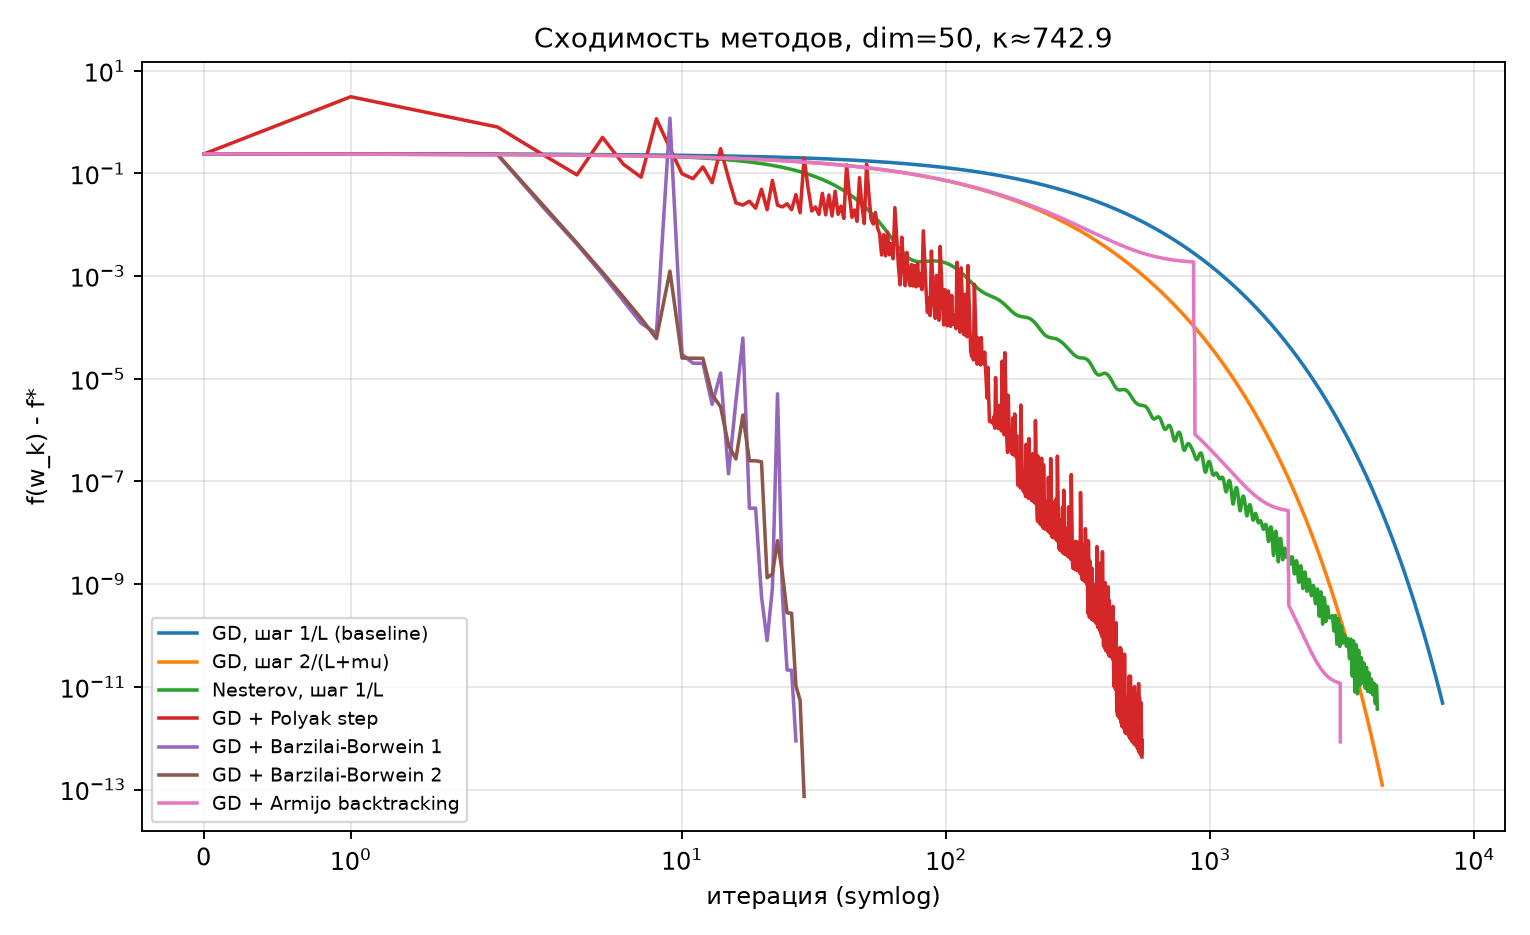
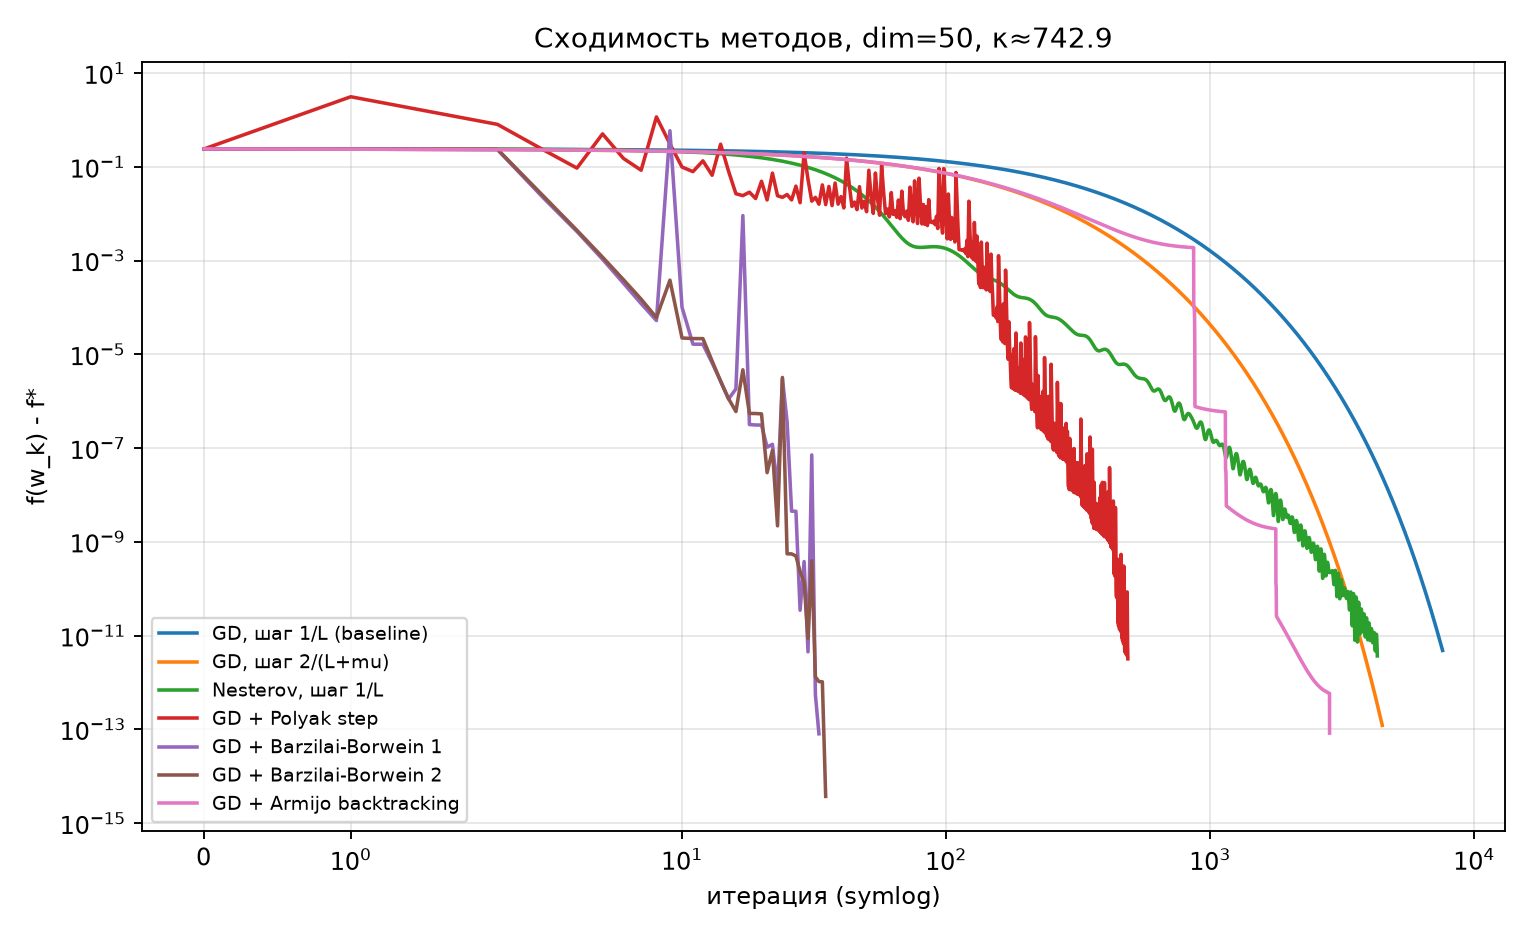
Update final report results

diff --git a/lab2/results/final/summary.md b/lab2/results/final/summary.md
@@ -1,27 +1,27 @@
 ## Задача A: dim=2
 
-| Метод | κ задачи | Итерации | Время, мс | f−f* (исходная) | (f−f*)/abs(f*) | ‖w−w*‖ | Сошелся |
+| Метод | κ задачи | Итерации | Время, мс | f−f* (исходная) | (f−f*)/abs(f*) | ‖w−w*‖ | Сошёлся |
 |---|---|---|---|---|---|---|---|
-| GD, шаг 1/L (baseline) | 6.84 | 68 | 0.991 | 1.67e-12 | 2.39e-10 | 3.71e-04 | да |
-| GD, шаг 2/(L+mu) | 6.84 | 40 | 0.891 | 4.08e-13 | 5.84e-11 | 1.41e-04 | да |
-| Nesterov, шаг 1/L | 6.84 | 64 | 0.988 | 9.71e-13 | 1.39e-10 | 2.83e-04 | да |
-| GD + Polyak step | 6.84 | 33 | 1.23 | 1.55e-12 | 2.23e-10 | 3.49e-04 | да |
-| GD + Barzilai-Borwein 1 | 6.84 | 3 | 0.113 | 2.60e-18 | 3.73e-16 | 1.89e-14 | да |
-| GD + Barzilai-Borwein 2 | 6.84 | 3 | 0.115 | 2.60e-18 | 3.73e-16 | 3.55e-15 | да |
-| GD + Armijo backtracking | 6.84 | 18 | 1.1 | 7.78e-14 | 1.11e-11 | 8.00e-05 | да |
-| GD + L2 (alpha=1e-06) | 6.61 | 39 | 1.26 | 5.79e-06 | 8.29e-04 | 0.684 | да |
-| GD + L2 (alpha=1e-05) | 5.14 | 30 | 0.919 | 3.19e-04 | 0.0457 | 5.05 | да |
-| GD + L2 (alpha=0.0001) | 2.14 | 12 | 0.356 | 2.82e-03 | 0.404 | 14.1 | да |
-| GD + L2 (alpha=0.001) | 1.14 | 5 | 0.179 | 5.92e-03 | 0.848 | 17.7 | да |
+| GD, шаг 1/L (baseline) | 6.84 | 68 | 1.5 | 1.67e-12 | 2.39e-10 | 3.71e-04 | да |
+| GD, шаг 2/(L+mu) | 6.84 | 40 | 0.847 | 4.08e-13 | 5.84e-11 | 1.41e-04 | да |
+| Nesterov, шаг 1/L | 6.84 | 64 | 1.5 | 9.71e-13 | 1.39e-10 | 2.83e-04 | да |
+| GD + Polyak step | 6.84 | 33 | 1.17 | 1.55e-12 | 2.23e-10 | 3.49e-04 | да |
+| GD + Barzilai-Borwein 1 | 6.84 | 3 | 0.152 | 0.00e+00 | 0.00e+00 | 1.71e-14 | да |
+| GD + Barzilai-Borwein 2 | 6.84 | 3 | 0.134 | 0.00e+00 | 0.00e+00 | 1.95e-14 | да |
+| GD + Armijo backtracking | 6.84 | 18 | 1.09 | 7.78e-14 | 1.11e-11 | 8.00e-05 | да |
+| GD + L2 (alpha=1e-06) | 6.61 | 39 | 1.2 | 5.79e-06 | 8.29e-04 | 0.684 | да |
+| GD + L2 (alpha=1e-05) | 5.14 | 30 | 0.898 | 3.19e-04 | 0.0457 | 5.05 | да |
+| GD + L2 (alpha=0.0001) | 2.14 | 12 | 0.38 | 2.82e-03 | 0.404 | 14.1 | да |
+| GD + L2 (alpha=0.001) | 1.14 | 5 | 0.21 | 5.92e-03 | 0.848 | 17.7 | да |
 
 ## Задача B: dim=50
 
-| Метод | κ задачи | Итерации | Время, мс | f−f* (исходная) | (f−f*)/abs(f*) | ‖w−w*‖ | Сошелся |
+| Метод | κ задачи | Итерации | Время, мс | f−f* (исходная) | (f−f*)/abs(f*) | ‖w−w*‖ | Сошёлся |
 |---|---|---|---|---|---|---|---|
-| GD, шаг 1/L (baseline) | 743 | 7592 | 171 | 4.81e-12 | 2.00e-11 | 9.64e-04 | да |
-| GD, шаг 2/(L+mu) | 743 | 4487 | 89.2 | 1.22e-13 | 5.07e-13 | 1.50e-04 | да |
-| Nesterov, шаг 1/L | 743 | 4297 | 64.3 | 3.68e-12 | 1.53e-11 | 7.55e-04 | да |
-| GD + Polyak step | 743 | 552 | 9.82 | 4.30e-13 | 1.79e-12 | 2.87e-04 | да |
-| GD + Barzilai-Borwein 1 | 743 | 27 | 0.714 | 8.86e-13 | 3.69e-12 | 2.87e-04 | да |
-| GD + Barzilai-Borwein 2 | 743 | 29 | 0.949 | 7.34e-14 | 3.05e-13 | 1.09e-04 | да |
-| GD + Armijo backtracking | 743 | 3111 | 110 | 8.47e-13 | 3.53e-12 | 4.05e-04 | да |
+| GD, шаг 1/L (baseline) | 743 | 7592 | 129 | 4.81e-12 | 2.00e-11 | 9.64e-04 | да |
+| GD, шаг 2/(L+mu) | 743 | 4487 | 86.8 | 1.22e-13 | 5.07e-13 | 1.50e-04 | да |
+| Nesterov, шаг 1/L | 743 | 4297 | 148 | 3.68e-12 | 1.53e-11 | 7.55e-04 | да |
+| GD + Polyak step | 743 | 488 | 22.5 | 3.20e-12 | 1.33e-11 | 7.87e-04 | да |
+| GD + Barzilai-Borwein 1 | 743 | 33 | 0.836 | 8.05e-14 | 3.35e-13 | 1.11e-04 | да |
+| GD + Barzilai-Borwein 2 | 743 | 35 | 1.25 | 3.72e-15 | 1.55e-14 | 2.36e-05 | да |
+| GD + Armijo backtracking | 743 | 2834 | 131 | 8.31e-14 | 3.46e-13 | 1.27e-04 | да |
